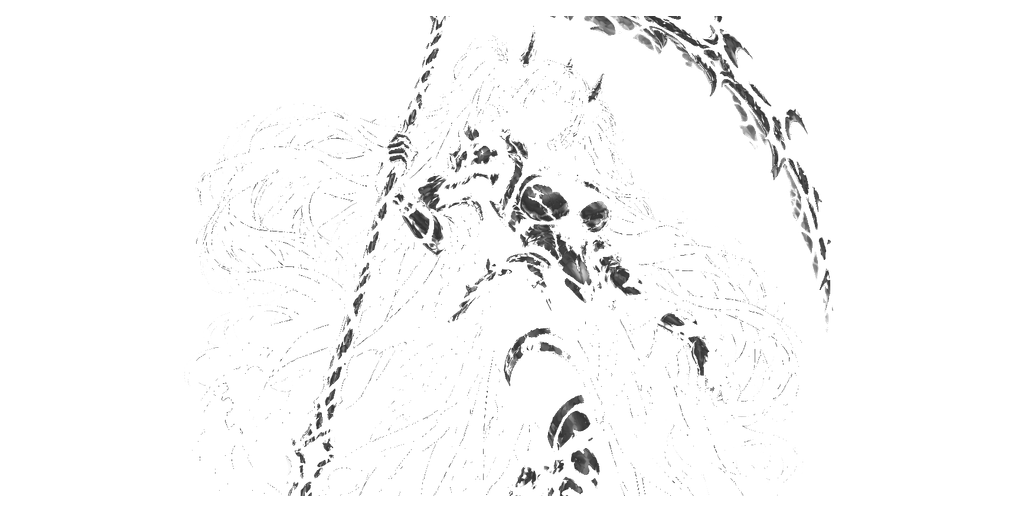
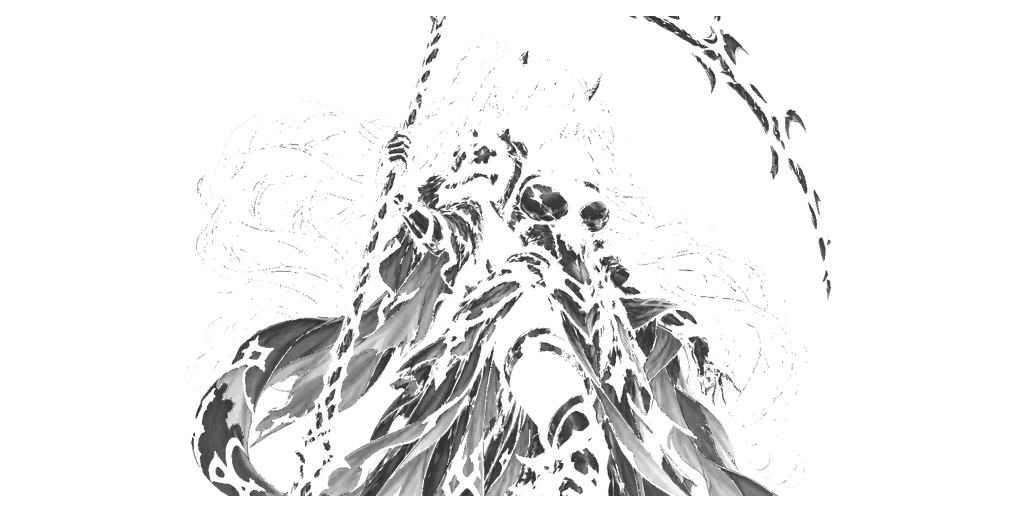
Separate Reaper twin-tail hair from armor and flowing fabric recoloring

diff --git a/src/content-monsters.ts b/src/content-monsters.ts
@@ -40,7 +40,7 @@ export const MONSTERS:Record<string,MonsterDef>={
  devourer:{id:'devourer',archetype:'Devourer',rank:'APEX ABERRATION',description:'A swift, relentless predator. Hunt champions, feed through danger and build lethal momentum.',hp:850,speed:245,armor:1,basic:{name:'Ravenous Fangs',description:'Fast circular claws; attack twice as fast during Feast. From Unbound II, Feast also sends piercing claw waves through distant ranks.',damage:45,radius:90,interval:.28,ranged:false},abilities:['rendlunge','maw','execution','frenzy'],passive:{id:'hunger',name:'Predatory Momentum',description:'Recent kills grant up to 25% damage and 15% movement speed. Momentum fades when feeding stops.'},palette:{primary:'#eee5d4',secondary:'#705b4b',accent:'#d9af61',power:'#a83248'},channels,visual:visual('devourer',.92)},
  titan:{id:'titan',archetype:'Titan',rank:'ANCIENT BEAST',description:'An armored catastrophe. Charge into the crowd and turn bodies into siege weapons.',hp:1600,speed:165,armor:.9,basic:{name:'Continental Cleave',description:'Slow, heavy circular impacts. Strongest in crowded melee.',damage:100,radius:125,interval:.7,ranged:false},abilities:['worldbreaker','stampede','kingfall','heavenfall'],passive:{id:'surrounded',name:'Juggernaut Momentum',description:'Actual movement builds Momentum, strengthening kill-earned barrier and reinforcing it while moving. Standing still weakens this protection. Three nearby enemies grant 15% damage reduction.'},palette:{primary:'#a83248',secondary:'#202433',accent:'#d9af61',power:'#d88868'},channels,visual:visual('titan',1.25)},
  sovereign:{id:'sovereign',archetype:'Sovereign',rank:'ORIGINAL INCARNATION',description:'The original all-round destroyer. Claws, feeding and overwhelming magic.',hp:1000,speed:205,armor:1,basic:{name:'Sovereign Claws',description:'Automatic circular cleave.',damage:42,radius:95,interval:.45,ranged:false},abilities:['rupture','devour','beam','catastrophe'],passive:{id:'rage',name:'Feeding Rage',description:'Devour grants 40% increased damage and 25% damage reduction for six seconds. Kills with Devour, Death Beam and Catastrophe build an eight-second Aegis ward. Devour earns more ward per kill; magic provides a smaller second route to protection.'},palette:{primary:'#aab9ce',secondary:'#a83248',accent:'#d9af61',power:'#d88868'},channels,visual:visual('sovereign')},
- reaper:{id:'reaper',unlockStage:1,archetype:'Reaper',rank:'ECLIPSE HARVESTER',description:'A scythe-wielding hunter of souls. Pierce distant ranks, blink through danger and sweep the horde away.',hp:850,speed:215,armor:1,basic:{name:'Crescent Sever',description:'Piercing scythe waves automatically seek the closest enemy in range.',damage:68,radius:660,interval:.55,ranged:true},abilities:['soulsweep','graveshift','reapingarc','moonstorm'],passive:{id:'soulharvest',name:'Soul Tithe',description:'Scythe hits steal life, with a shared recovery limit. Use sweeps and Blink to create space while your ranged waves cut through prey.'},palette:{primary:'#202433',secondary:'#8862c7',accent:'#d9af61',power:'#49b3aa'},channels:[{id:'primary',label:'Armor / scythe'},{id:'secondary',label:'Twin tails / mantle'},{id:'accent',label:'Metal / ornament'},{id:'power',label:'Eyes / soul energy'}],visual:visual('reaper',1.05)}
+ reaper:{id:'reaper',unlockStage:1,archetype:'Reaper',rank:'ECLIPSE HARVESTER',description:'A scythe-wielding hunter of souls. Pierce distant ranks, blink through danger and sweep the horde away.',hp:850,speed:215,armor:1,basic:{name:'Crescent Sever',description:'Piercing scythe waves automatically seek the closest enemy in range.',damage:68,radius:660,interval:.55,ranged:true},abilities:['soulsweep','graveshift','reapingarc','moonstorm'],passive:{id:'soulharvest',name:'Soul Tithe',description:'Scythe hits steal life, with a shared recovery limit. Use sweeps and Blink to create space while your ranged waves cut through prey.'},palette:{primary:'#202433',secondary:'#8862c7',accent:'#d9af61',power:'#49b3aa'},channels:[{id:'primary',label:'Armor / fabric'},{id:'secondary',label:'Twin tails / hair'},{id:'accent',label:'Metal / ornament'},{id:'power',label:'Eyes / soul energy'}],visual:visual('reaper',1.05)}
 };
 export function paletteFor(monster:MonsterDef,value:unknown):Palette{const output={...monster.palette};if(!value||typeof value!=='object')return output;for(const {id} of monster.channels){const color=(value as Record<string,unknown>)[id];if(typeof color==='string'&&/^#[0-9a-f]{6}$/i.test(color))output[id]=color.toLowerCase();}return output;}
 export function validateContent(){for(const m of Object.values(MONSTERS))if(m.abilities.length!==4||!m.abilities.every(id=>ABILITIES[id])||m.hp<=0||m.speed<=0||m.basic.interval<=0)throw Error('Invalid monster '+m.id);for(const a of Object.values(ABILITIES))if(a.cooldown<=0||a.damage<0||a.radius<=0)throw Error('Invalid ability '+a.id);}

diff --git a/STAGE2_REAPER_RELEASE_REPORT.md b/STAGE2_REAPER_RELEASE_REPORT.md
@@ -11,7 +11,7 @@ Validated October 4, 2026. Local entry: http://127.0.0.1:4173/stage2-test/. Publ
 
 ## Reaper
 
-Adult gothic anime monster with two long high twin tails and an ornate scythe. Generated selection art, portrait, ultimate cut-in, five gameplay animation states and seven character-specific effects. Four continuous shaded material masks preserve ink, skin and fine silhouette detail in contrasting palettes. The complete recolored gameplay, portrait and cut-in load before her match starts. Scythe effects follow the selected soul-energy color.
+Adult gothic anime monster with two long high twin tails and an ornate scythe. Generated selection art, portrait, ultimate cut-in, five gameplay animation states and seven character-specific effects. Four continuous shaded material masks preserve ink, skin and fine silhouette detail in contrasting palettes. Armor and flowing fabric use PRIMARY, twin tails and hair use SECONDARY, metal ornament uses ACCENT, and soul energy uses POWER. Changing fabric color leaves hair unchanged and changing hair leaves fabric unchanged, verified across all four presentation types. The complete recolored gameplay, portrait and cut-in load before her match starts. Scythe effects follow the selected soul-energy color.
 
 - **Crescent Sever:** automatic piercing ranged scythe waves aimed at nearby prey.
 - **Soul Harvest:** scythe sweep, knockback and life steal.
@@ -59,3 +59,5 @@ All 18 automated Stage 2 runs cleared. Reaper's Stage 1 survival ranged 9:44–1
 - Offline cached reload, safe worker update, bounded cache, equal camera area and the relative-path GitHub Pages build pass. Source art and developer files are excluded from the production artifact.
 
 Machine-readable measurements and browser screenshots are in ignored `test-results/`, including `balance-v25-final.json`, `stage2-v25-balance-final.json`, `reaper-browser-v25.json`, and `stage2-v25-mobile-performance.json`.
+
+Hair/fabric follow-up: the generated guides now assign ALL woven clothing panels and armor to the armor/fabric channel, and ONLY hair to the twin-tails/hair channel. Anatomical guide samples, independent mask coverage, contrasting browser composites and a downloaded result-card rendering verify the separation. Commands: `node tools/check-reaper-color-regions.mjs` and `node tests/reaper-colors-browser.mjs`. These cosmetic changes retain v25 combat rules and the measured balance above.

diff --git a/art-source/reaper/PROMPTS.md b/art-source/reaper/PROMPTS.md
@@ -6,7 +6,7 @@ Prompt briefs:
 
 - **selection-master.png:** Whole adult female monster champion, medieval fantasy isekai anime, distinctive long twin tails, small demon horns, ornate enormous scythe, dark armor, flowing purple hair and mantle, gold metal ornament, luminous cyan soul energy. Fine continuous ink outlines and shaded materials, complete silhouette, no text, no scene, transparent background.
 - **gameplay-master.png:** Same registered character and scythe in six distinct full-body poses on a three-column, two-row sheet: idle, running, attacking, recoil, ultimate and blink slash. Preserve the adult face, two high ponytails, outfit, palette and weapon proportions. Transparent cells, no labels or floor. A transparency edit removed the surrounding scene pixels.
-- **selection-color-guide.png / gameplay-color-guide.png:** Edit the respective master into a geometrically registered material guide. Pure blue armor and dark scythe body; magenta hair and flowing cloth; yellow metal ornament; red eyes and magical energy; black skin and ink. Continuous, sharp material boundaries. Preserve silhouette, pose positions, canvas dimensions and transparency.
+- **selection-color-guide.png / gameplay-color-guide.png:** Edit the respective master into a geometrically registered material guide. Pure blue armor, ALL flowing clothing/fabric panels and dark scythe body; magenta HAIR ONLY, including bangs and both twin tails; yellow metal ornament; red eyes and magical energy; black skin and ink. Continuous, sharp material boundaries. Explicitly distinguish fine hair strands originating at the ponytail ties from the broad folded, gold-patterned fabric of the skirt, mantle and coat tails. Preserve silhouette, pose positions, canvas dimensions and transparency.
 - **reaper-wave.png:** Single ornate anime scythe energy crescent moving right, trail to the left, cyan soul flame and luminous fine ink detail, isolated transparent combat effect, no character or text.
 - **reaper-sweep.png:** Broad sweeping circular scythe arc, luminous cyan spectral flame, medieval gothic ornament, hollow center and transparent background.
 - **reaper-blink.png:** Vertical magical scythe portal and arrival slash, spectral cyan soul energy, sharp anime fantasy detail, transparent background.
